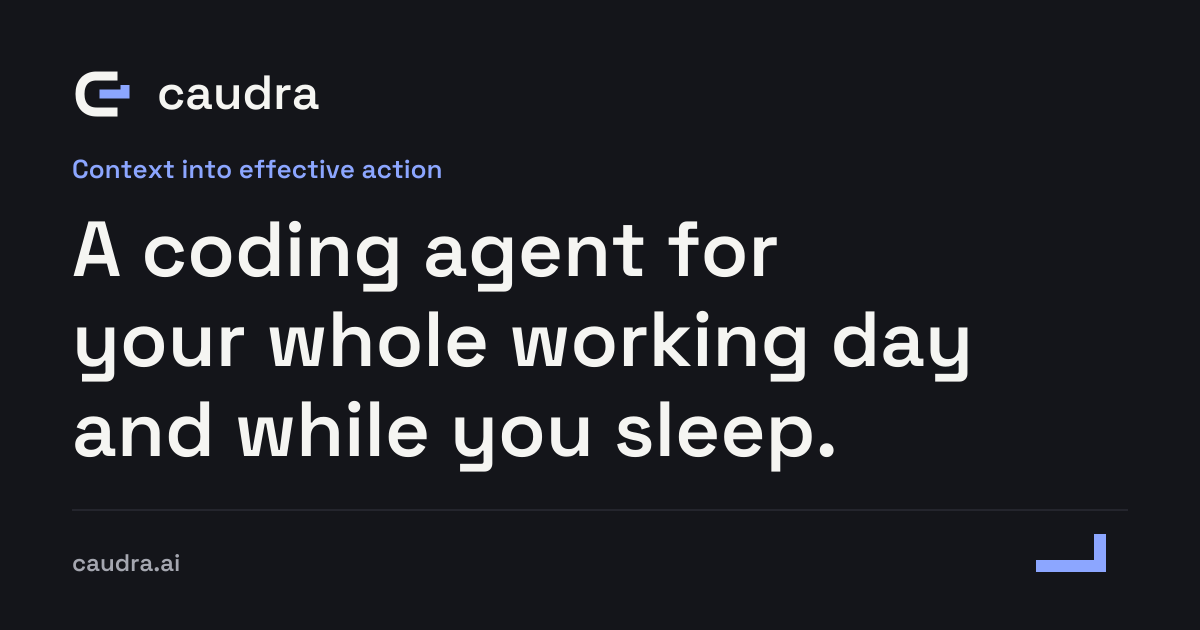
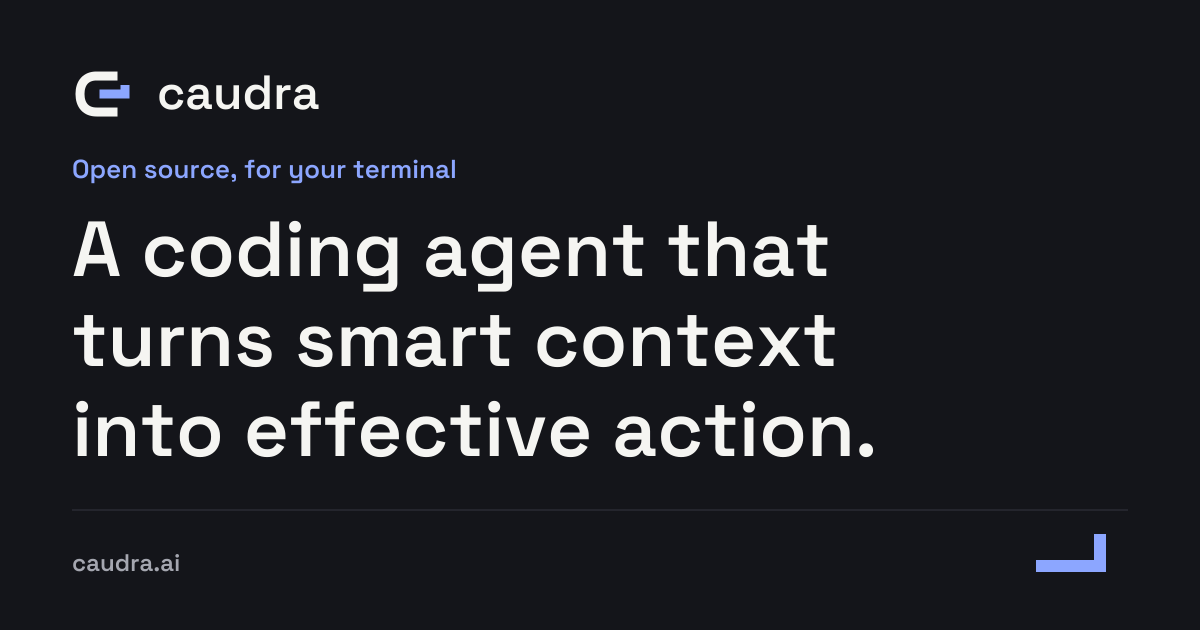
feat(docs): retell the brand story and retire the root docs folder
Lead the homepage with what Caudra does: "A coding agent that turns
smart context into effective action." Tell the origin of the name in a
cited homepage section and a matching README section, and redraw the
social card for the new headline. Remove the root docs folder, whose
design records are superseded and whose brand rules now live in
site/AGENTS.md.

Headline
--------
- HEADLINE in site/src/data/home.ts becomes "A coding agent that turns
  smart context into effective action." The h1 sets it on three lines
  and marks "effective action" in cobalt.
- The hero eyebrow no longer repeats the short brand line. It reads
  "Open source, for your terminal" from HERO_EYEBROW, and its class is
  now .hero-eyebrow. "Context into effective action" remains the page
  title.
- The README hero, site.webmanifest, site/DESIGN.md and the product
  identity rules in site/AGENTS.md carry the new headline.
- The time-away message of the old headline stays in the hero copy and
  in story 02.

Name story
----------
- A new #name section, "Why the name", follows the founder section. It
  gives the pronunciation (KAW-druh), explains the caudate nucleus, and
  relates the name to how Caudra turns context into an action and reads
  each outcome before the next step.
- A five-step loop figure, taken from the retired identity guide, runs
  from context and intent to the observed outcome.
- The section cites Grahn, Parkinson and Owen (2008), Lau and Glimcher
[…]

diff --git a/site/src/styles/home.css b/site/src/styles/home.css
@@ -52,7 +52,7 @@ h3 { margin: 0; font-size: 1.2rem; font-weight: 500; letter-spacing: -.03em; lin
 .nav-install span { margin-left: .8rem; color: var(--accent); }
 
 .hero { padding-block: clamp(3rem, 7vw, 5.5rem) clamp(3.5rem, 7vw, 6rem); }
-.hero-tagline { display: flex; align-items: center; gap: .8rem; margin-bottom: 2.4rem; color: var(--text); }
+.hero-eyebrow { display: flex; align-items: center; gap: .8rem; margin-bottom: 2.4rem; color: var(--text); }
 .signal-square { width: .55rem; height: .55rem; background: var(--accent); }
 .hero-grid { display: grid; grid-template-columns: minmax(0, 1.2fr) minmax(0, 1fr); gap: 2.5rem 5rem; align-items: end; margin-block: 2.8rem 3.5rem; }
 .hero-copy p { max-width: 40rem; margin: 0; color: var(--text-muted); }
@@ -99,7 +99,7 @@ h3 { margin: 0; font-size: 1.2rem; font-weight: 500; letter-spacing: -.03em; lin
 .clip-tab-list button[aria-pressed='true'] { border-color: var(--text); background: var(--text); color: var(--surface); }
 .clip-tab-list button:hover:not([aria-pressed='true']) { border-color: var(--accent); color: var(--accent); }
 
-.founder, .story, .included, .lab { padding-block: clamp(4rem, 9vw, 7.5rem); }
+.founder, .name, .story, .included, .lab { padding-block: clamp(4rem, 9vw, 7.5rem); }
 .founder-grid { display: grid; grid-template-columns: minmax(0, 5fr) minmax(0, 7fr); grid-template-areas: "head head" "compare quote" "built quote" "credits credits" "method method"; gap: 3.5rem 6rem; }
 .founder-head { grid-area: head; }
 .founder-head .eyebrow, .section-head .eyebrow { margin-bottom: 1.5rem; }
@@ -127,6 +127,20 @@ h3 { margin: 0; font-size: 1.2rem; font-weight: 500; letter-spacing: -.03em; lin
 .founder-credits span { color: var(--text-muted); font-size: .85rem; }
 .method-note { grid-area: method; display: flex; flex-wrap: wrap; gap: .3rem 1.5rem; margin: 0; padding: 1.25rem 1.5rem; border: 1px solid var(--line); background: var(--raised); color: var(--text-muted); font-size: .88rem; }
 .method-note strong { color: var(--text); font: 500 .7rem/2 var(--mono); letter-spacing: .12em; text-transform: uppercase; }
+
+.name-grid { display: grid; grid-template-columns: minmax(0, 5fr) minmax(0, 7fr); gap: 3rem 6rem; align-items: center; }
+.name-copy .eyebrow, .name-copy h2 { margin-bottom: 1.5rem; }
+.name-copy p { max-width: 36rem; margin: 0 0 1rem; color: var(--text-muted); }
+.name-copy h2 + p { color: var(--text); font-size: clamp(1.05rem, 1.4vw, 1.2rem); letter-spacing: -.02em; }
+.name-copy .fine-print { margin: 1.5rem 0 0; }
+.name-copy .fine-print a { color: var(--text); }
+.name-loop { margin: 0; }
+.name-loop ol { margin: 0; padding: 0; border-left: 2px solid var(--accent); list-style: none; }
+.name-loop li { display: flex; align-items: baseline; gap: 1.25rem; padding: 1.1rem 0 1.1rem 1.5rem; border-top: 1px solid var(--line); font-size: clamp(1.4rem, 2.6vw, 2.2rem); letter-spacing: -.04em; line-height: 1.15; }
+.name-loop li:first-child { border-top: 0; }
+.name-loop li span { color: var(--accent); font: .75rem/1.6 var(--mono); letter-spacing: 0; }
+.name-loop figcaption { display: flex; gap: .7rem; padding: 1rem 0 0 1.5rem; border-top: 1px solid var(--line); color: var(--text-muted); font: .75rem/1.6 var(--mono); }
+.name-loop figcaption span { color: var(--accent); }
 
 .story-grid { display: grid; grid-template-columns: minmax(0, 1fr); grid-template-areas: "copy" "stage" "points" "footer"; gap: 3rem 5rem; }
 .layout-split .story-grid { grid-template-columns: minmax(0, 5fr) minmax(0, 7fr); grid-template-areas: "copy stage" "points points" "footer footer"; }
@@ -224,7 +238,7 @@ h3 { margin: 0; font-size: 1.2rem; font-weight: 500; letter-spacing: -.03em; lin
 
 @media (max-width: 1100px) {
   .shell { width: calc(100% - 4rem); }
-  .hero-grid, .founder-grid, .models-grid, .jobs-head, .sandbox, .install-grid, .privacy-grid, .section-head, .layout-stacked .story-copy { grid-template-columns: minmax(0, 1fr); }
+  .hero-grid, .founder-grid, .name-grid, .models-grid, .jobs-head, .sandbox, .install-grid, .privacy-grid, .section-head, .layout-stacked .story-copy { grid-template-columns: minmax(0, 1fr); }
   .founder-grid { grid-template-areas: "head" "quote" "compare" "built" "credits" "method"; gap: 2.5rem; }
   .layout-split .story-grid, .layout-split-reverse .story-grid { grid-template-columns: minmax(0, 1fr); grid-template-areas: "copy" "stage" "points" "footer"; }
   .layout-stacked .story-copy { grid-template-areas: "eyebrow" "title" "lede"; }
@@ -239,7 +253,7 @@ h3 { margin: 0; font-size: 1.2rem; font-weight: 500; letter-spacing: -.03em; lin
   .brand { font-size: 1.4rem; }
   .brand img { width: 27px; height: 27px; }
   .hero h1 br { display: none; }
-  .hero-tagline { margin-bottom: 1.8rem; font-size: .6rem; letter-spacing: .08em; }
+  .hero-eyebrow { margin-bottom: 1.8rem; font-size: .6rem; letter-spacing: .08em; }
   .lane { grid-template-columns: minmax(0, 1fr); gap: .2rem; }
   .lane-legend { padding-left: 0; }
   .steps li { grid-template-columns: minmax(0, 1fr); }

diff --git a/site/src/data/home.ts b/site/src/data/home.ts
@@ -1,5 +1,7 @@
 export const TAGLINE = 'Context into effective action';
-export const HEADLINE = 'A coding agent for your whole working day and while you sleep.';
+export const HEADLINE = 'A coding agent that turns smart context into effective action.';
+export const HERO_EYEBROW = 'Open source, for your terminal';
+export const SOCIAL_CARD_ALT = `Caudra. ${HERO_EYEBROW}. ${HEADLINE}`;
 export const METHOD_NOTE = "These are the maintainer's own measurements from daily use, not benchmarks. Timings were measured by hand. Results depend on models, projects, and hardware.";
 export const CLAUDE_NOTE = "Claude subscription sign-in is experimental. Anthropic's terms limit Pro and Max subscriptions to official clients.";
 export const WORKCELL_REPOSITORY = 'https://github.com/tensorninja/workcell-mcp';
@@ -88,6 +90,10 @@ const PLANNOTATOR: Link = { name: 'Plannotator', href: 'https://plannotator.ai/'
 const HERDR: Link = { name: 'Herdr', href: 'https://herdr.dev' };
 export const GROK_BUILD: Link = { name: 'Grok Build workflows', href: 'https://x.ai/news/workflows' };
 export const NINFER: Link = { name: 'ninfer-4090', href: 'https://github.com/tensorninja/ninfer-4090' };
+const GRAHN_2008: Link = { name: 'Grahn, Parkinson and Owen, 2008', href: 'https://www.sciencedirect.com/science/article/abs/pii/S0301008208001019' };
+const LAU_2007: Link = { name: 'Lau and Glimcher, 2007', href: 'https://www.jneurosci.org/content/27/52/14502' };
+const DOI_2020: Link = { name: 'Doi et al., 2020', href: 'https://elifesciences.org/articles/56694' };
+export const NAME_SOURCES = [GRAHN_2008, LAU_2007, DOI_2020];
 
 const linked = ({ name, href }: Link) => `[${name}](${href})`;
 
@@ -120,6 +126,18 @@ export const heroClip: Clip = {
       { label: '`task`', segments: [{ start: 40, end: 72, kind: 'write' }, { start: 72, end: 100, kind: 'run' }], marker: { at: 41, text: 'Chat opens' } },
     ],
   },
+};
+
+export const nameStory = {
+  title: ['Caudra comes', 'from caudate.'],
+  paragraphs: [
+    'Caudra, pronounced KAW-druh, is named after the caudate nucleus. This part of the brain belongs to the circuits that connect evidence and goals to action. Studies link it to learning which actions lead to which outcomes.',
+    'The name describes how Caudra works. It turns the context of your task into an action, then reads the outcome before it chooses the next one.',
+    'The brain is only the inspiration for the name. Caudra is software, and it works toward the goal you set.',
+  ],
+  loop: ['Context and intent', 'Evaluate evidence', 'Select an action', 'Execute with tools', 'Observe the outcome'],
+  loopNote: 'Each outcome becomes evidence for the next step.',
+  sources: `Sources: ${NAME_SOURCES.map(linked).join(', ')}.`,
 };
 
 export const stories: readonly Story[] = [

diff --git a/site/tests/output/site.test.ts b/site/tests/output/site.test.ts
@@ -5,7 +5,7 @@ import { load, type CheerioAPI } from 'cheerio';
 import { createMarkdownProcessor } from '@astrojs/markdown-remark';
 import { SITE, estimatedTokens, pageMarkdown, pagePath, readDocs } from '../../src/data/docs';
 import compatibility from '../../src/markdown/compatibility';
-import { CLAUDE_NOTE, GROK_BUILD, HEADLINE, METHOD_NOTE, NINFER, TAGLINE, capabilityGroups, heroClip, inspirations, metrics, stories } from '../../src/data/home';
+import { CLAUDE_NOTE, GROK_BUILD, HEADLINE, HERO_EYEBROW, METHOD_NOTE, NAME_SOURCES, NINFER, capabilityGroups, heroClip, inspirations, metrics, stories } from '../../src/data/home';
 import { INSTALL_COMMAND } from '../../src/data/install';
 
 const ILLUSTRATION = 'Illustration';
@@ -14,6 +14,8 @@ const MAINTAINER_ATTRIBUTION = 'Measured by the maintainer in daily use';
 const MIN_CAPABILITIES = 40;
 const FOUNDER_FIGURES = /20 ?(?:B\b|billion)|9[47]%|under a second|<1 s|[12] GB|10k-turn/;
 const OTHER_AGENTS = /OpenCode|Claude Code|Codex|Cursor|Aider|Gemini CLI|Grok Build/i;
+const BRAIN_REFERENCES = /\bbrain\b|caudate/i;
+const NAME_STORY = 'name';
 const dist = new URL('../../dist/', import.meta.url);
 const { pages, navigation } = await readDocs();
 const renderer = await createMarkdownProcessor({ smartypants: false, remarkPlugins: [compatibility], syntaxHighlight: false });
@@ -139,6 +141,14 @@ test('homepage founder figures are attributed and explained by the method note',
   expect(homeText($, '#why')).not.toMatch(OTHER_AGENTS);
 });
 
+test('homepage keeps brain references in the cited name story', () => {
+  const $ = documents.get('/')!;
+  for (const section of $('main section').toArray()) {
+    if (BRAIN_REFERENCES.test($(section).text())) expect($(section).attr('id')).toBe(NAME_STORY);
+  }
+  for (const source of NAME_SOURCES) expect($(`#${NAME_STORY} a[href="${source.href}"]`).text()).toBe(source.name);
+});
+
 test('homepage credits ideas, labels experiments, and makes no automation claims', () => {
   const $ = documents.get('/')!;
   expect(homeText($, '.claude-note')).toBe(CLAUDE_NOTE);
@@ -161,7 +171,7 @@ test('homepage has an honest product story, working destinations, and a small en
   const $ = documents.get('/')!;
   expect($('h1').length).toBe(1);
   expect(homeText($, 'h1')).toBe(HEADLINE);
-  expect(homeText($, '.hero-tagline')).toBe(TAGLINE);
+  expect(homeText($, '.hero-eyebrow')).toBe(HERO_EYEBROW);
   expect($('[data-copy-source]').map((_, node) => $(node).text()).get()).toEqual([INSTALL_COMMAND, INSTALL_COMMAND]);
   expect($('.hero #hero-install').length).toBe(1);
   expect($('.recording').length).toBe([heroClip, ...stories.flatMap((story) => story.clips)].length);

diff --git a/site/astro.config.ts b/site/astro.config.ts
@@ -2,6 +2,7 @@ import { defineConfig } from 'astro/config';
 import { unified } from '@astrojs/markdown-remark';
 import starlight from '@astrojs/starlight';
 import { readDocs, SITE } from './src/data/docs';
+import { SOCIAL_CARD_ALT } from './src/data/home';
 import compatibility from './src/markdown/compatibility';
 import diagrams from './src/markdown/diagrams';
 import publish from './scripts/publish';
@@ -34,7 +35,7 @@ export default defineConfig({
         { tag: 'link', attrs: { rel: 'preload', href: '/fonts/jetbrains-mono-latin.woff2', as: 'font', type: 'font/woff2', crossorigin: 'anonymous' } },
         { tag: 'link', attrs: { rel: 'preload', href: '/fonts/space-grotesk.woff2', as: 'font', type: 'font/woff2', crossorigin: 'anonymous' } },
         { tag: 'meta', attrs: { property: 'og:image', content: `${SITE}/social-card.png` } },
-        { tag: 'meta', attrs: { property: 'og:image:alt', content: 'Caudra. Context into effective action. A coding agent for your whole working day and while you sleep.' } },
+        { tag: 'meta', attrs: { property: 'og:image:alt', content: SOCIAL_CARD_ALT } },
         { tag: 'meta', attrs: { name: 'twitter:card', content: 'summary_large_image' } },
         { tag: 'meta', attrs: { name: 'theme-color', content: '#14151a' } },
       ],

diff --git a/scripts/model_efficiency.py b/scripts/model_efficiency.py
@@ -1310,7 +1310,7 @@ def render_markdown(report):
         "Regenerate with:",
         "",
         "```sh",
-        "python3 scripts/model_efficiency.py --format markdown > docs/model-efficiency.md",
+        "python3 scripts/model_efficiency.py --format markdown",
         "```",
         "",
         "## Read this first",

diff --git a/site/DESIGN.md b/site/DESIGN.md
@@ -1,14 +1,14 @@
 # Website design system
 
-**Context into effective action.** This is the enduring brand tagline. Caudra
-combines an agent and the surrounding development work in one native terminal
-application, for interactive work and unattended runs.
+**A coding agent that turns smart context into effective action.** This is the
+homepage headline. Its short form, “Context into effective action”, serves page
+titles and metadata. Caudra combines an agent and the surrounding development
+work in one native terminal application, for interactive work and unattended
+runs.
 
-The homepage headline is “A coding agent for your whole working day and while
-you sleep.” It complements the tagline rather than replacing it. Day/night copy
-does not claim shipped scheduled automations or background work that survives
-closing its owning session. The homepage shows work in use. The docs prioritize
-reading, navigation, and finding an answer.
+Day/night copy does not claim shipped scheduled automations or background work
+that survives closing its owning session. The homepage shows work in use. The
+docs prioritize reading, navigation, and finding an answer.
 
 ## Principles
 
@@ -84,9 +84,10 @@ Touch and app icons are 180, 192, and 512px. The social image is 1200×630.
 `public/social-card.svg` is the current social artwork. Its text and the wordmark
 are SVG outlines from the licensed font using fontTools, so rendering does not
 depend on installed system fonts. Render the social SVG directly with CairoSVG
-to refresh its PNG. The artwork carries the tagline “Context into effective
-action” and the headline “A coding agent for your whole working day and while
-you sleep.” Keep image alt text consistent with both lines of messaging.
+to refresh its PNG. The artwork carries the hero eyebrow “Open source, for your
+terminal” and the headline “A coding agent that turns smart context into
+effective action.” `SOCIAL_CARD_ALT` in `src/data/home.ts` holds the alt text
+for both lines, so change it together with the artwork.
 Do not reuse the historical aperture/coral artwork kept outside `public/`.
 
 ## Code blocks

diff --git a/site/AGENTS.md b/site/AGENTS.md
@@ -54,12 +54,14 @@ Fine when genuine: anaphora in scannable checklists ("No prompt text / No model 
 
 ## Product identity
 
-- The enduring brand tagline is “Context into effective action”. Keep it distinct from the homepage headline: “A coding agent for your whole working day and while you sleep.”
+- The homepage headline is “A coding agent that turns smart context into effective action.” The short brand line “Context into effective action” serves titles and metadata. Do not show both side by side.
+- Lead with what Caudra does: effective action from coordinated models, tools, and subagents, adapted to each outcome and kept under user control. Prefer concrete actions and outcomes over claims about intelligence. Never imply the agent always knows the right answer.
 - Position Caudra for interactive work and unattended runs: agent work, native tools, a workbench, and resumable sessions in one terminal application.
 - Day/night messaging does not claim shipped scheduled automations or imply that background work survives closing its owning session.
+- Caudra is pronounced KAW-druh, IPA /ˈkɔːdrə/, and is named after the caudate nucleus, part of the brain circuits that connect evidence and goals to action. Brain references belong only in the name story (homepage `#name`, README “Why the name”), which cites Grahn, Parkinson and Owen (2008), Lau and Glimcher (2007), and Doi et al. (2020). The analogy is limited: never imply consciousness, biological equivalence, or goals of its own.
 - State that Caudra is an independent fork when project provenance is relevant.
 - Use `Caudra` for the product and `caudra` for commands, paths, packages, APIs, and the lowercase wordmark.
-- Use only `https://caudra.ai` for the site, docs, and installer origin.
+- Use only `https://caudra.ai` for the site, docs, and installer origin. An unrelated apparel business owns `caudra.com`, so never imply any connection to it.
 - Use `github.com/caudra/caudra` for source and `github.com/caudra/config` for the example config.
 - Telemetry names use the `caudra.*` namespace.
 

diff --git a/README.md b/README.md
@@ -1,10 +1,10 @@
 <p align="center">
-  <img src="./site/public/social-card.png" alt="caudra. Context into effective action. A coding agent for your whole working day and while you sleep." width="100%">
+  <img src="./site/public/social-card.png" alt="Caudra. Open source, for your terminal. A coding agent that turns smart context into effective action." width="100%">
 </p>
 
 # Caudra
 
-**A coding agent for your whole working day and while you sleep.**
+**A coding agent that turns smart context into effective action.**
 
 Caudra is a terminal coding agent written in Rust. It brings steerable subagents, built-in token savings, a full workbench, and a session history you can always return to. Everything ships in one native binary, so there are no plugins to assemble.
 
@@ -25,6 +25,12 @@ curl -fsSL https://caudra.ai/install.sh | sh
 > **Thorsten Born**, software engineer and data architect, maintainer of Caudra
 
 In the same daily use, about 97% of Anthropic and 94% of OpenAI prompt tokens came from cache. These figures are the maintainer's own measurements, not benchmarks. Timings were measured by hand, and results depend on models, projects, and hardware.
+
+## Why the name
+
+Caudra, pronounced KAW-druh, is named after the caudate nucleus. This part of the brain belongs to the circuits that connect evidence and goals to action. Studies link it to learning which actions lead to which outcomes ([Grahn, Parkinson and Owen, 2008](https://www.sciencedirect.com/science/article/abs/pii/S0301008208001019), [Lau and Glimcher, 2007](https://www.jneurosci.org/content/27/52/14502), [Doi et al., 2020](https://elifesciences.org/articles/56694)).
+
+The name describes how Caudra works. It turns the context of your task into an action, then reads the outcome before it chooses the next one. The brain is only the inspiration for the name. Caudra is software, and it works toward the goal you set.
 
 ## A quick tour
 
